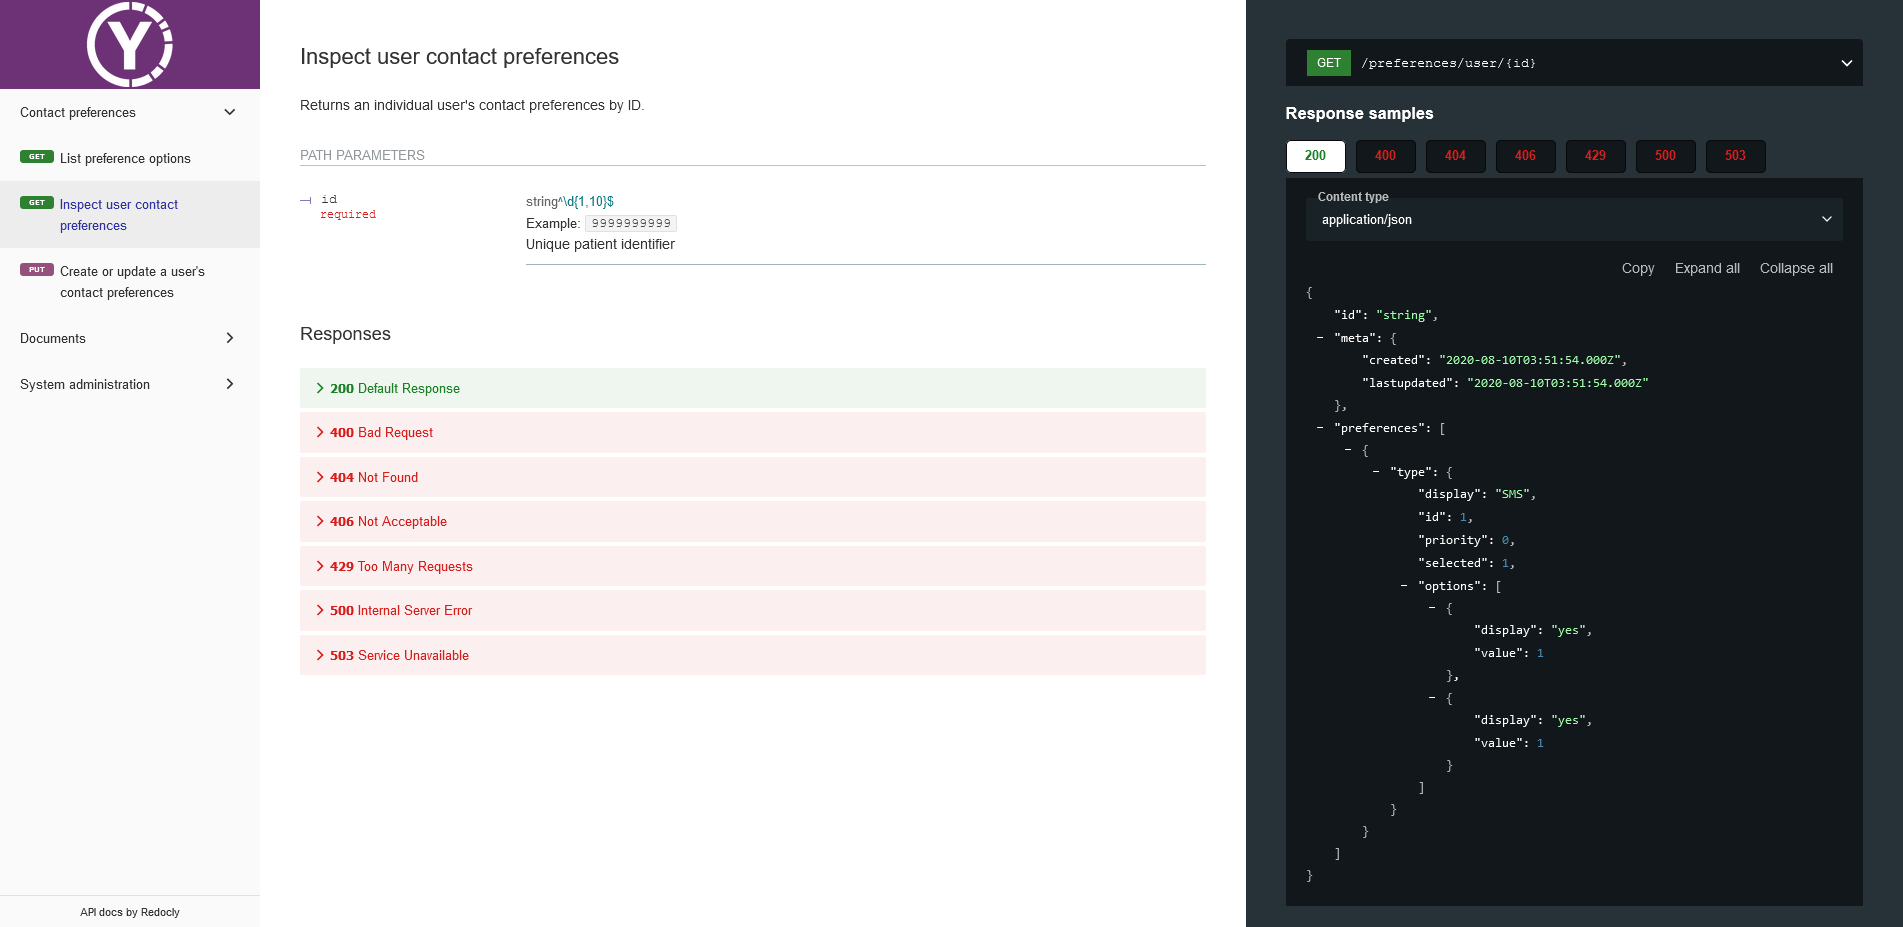
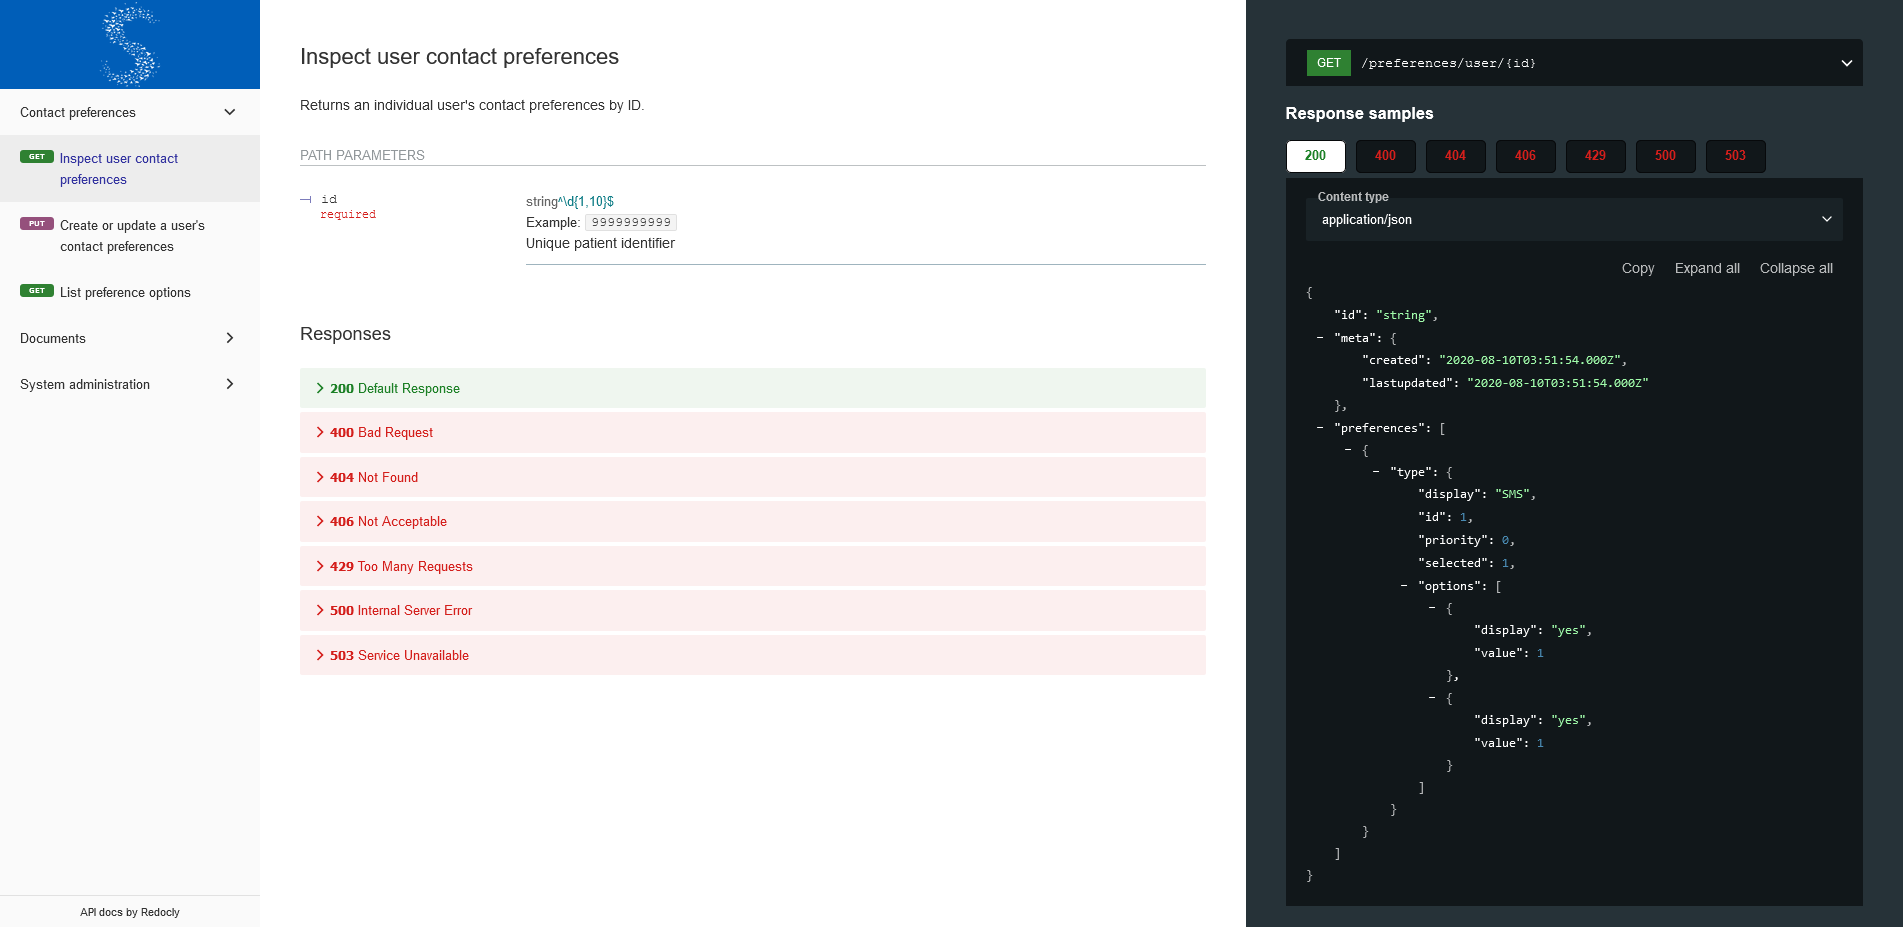
chore: replace ydh nhsft branding and links with somerset nhsft (#1288)
* test: replace ydh.nhs.uk domain

* chore: replace ydh nhsft branding and links with somerset nhsft

Changed region(s): [[0.0, 0.0, 0.155, 0.1208], [0.0, 0.151, 0.093, 0.3323], [0.279, 0.2114, 0.341, 0.2718]]

diff --git a/src/server.test.js b/src/server.test.js
@@ -649,7 +649,7 @@ describe("Server deployment", () => {
 					},
 					request: {
 						headers: {
-							origin: "https://notreal.ydh.nhs.uk",
+							origin: "https://notreal.somersetft.nhs.uk",
 						},
 					},
 					expected: {
@@ -658,12 +658,12 @@ describe("Server deployment", () => {
 								json: {
 									...expResHeadersJson,
 									"access-control-allow-origin":
-										"https://notreal.ydh.nhs.uk",
+										"https://notreal.somersetft.nhs.uk",
 								},
 								text: {
 									...expResHeadersText,
 									"access-control-allow-origin":
-										"https://notreal.ydh.nhs.uk",
+										"https://notreal.somersetft.nhs.uk",
 								},
 							},
 						},
@@ -672,11 +672,11 @@ describe("Server deployment", () => {
 				{
 					testName: "CORS enabled and set to string",
 					corsEnvVariables: {
-						CORS_ORIGIN: "https://notreal.ydh.nhs.uk",
+						CORS_ORIGIN: "https://notreal.somersetft.nhs.uk",
 					},
 					request: {
 						headers: {
-							origin: "https://notreal.ydh.nhs.uk",
+							origin: "https://notreal.somersetft.nhs.uk",
 						},
 					},
 					expected: {
@@ -685,12 +685,12 @@ describe("Server deployment", () => {
 								json: {
 									...expResHeadersJson,
 									"access-control-allow-origin":
-										"https://notreal.ydh.nhs.uk",
+										"https://notreal.somersetft.nhs.uk",
 								},
 								text: {
 									...expResHeadersText,
 									"access-control-allow-origin":
-										"https://notreal.ydh.nhs.uk",
+										"https://notreal.somersetft.nhs.uk",
 								},
 							},
 						},
@@ -700,13 +700,13 @@ describe("Server deployment", () => {
 					testName: "CORS enabled and set to array of strings",
 					corsEnvVariables: {
 						CORS_ORIGIN: [
-							"https://notreal.ydh.nhs.uk",
+							"https://notreal.somersetft.nhs.uk",
 							"https://notreal.sft.nhs.uk",
 						],
 					},
 					request: {
 						headers: {
-							origin: "https://notreal.ydh.nhs.uk",
+							origin: "https://notreal.somersetft.nhs.uk",
 						},
 					},
 					expected: {
@@ -715,12 +715,12 @@ describe("Server deployment", () => {
 								json: {
 									...expResHeadersJson,
 									"access-control-allow-origin":
-										"https://notreal.ydh.nhs.uk",
+										"https://notreal.somersetft.nhs.uk",
 								},
 								text: {
 									...expResHeadersText,
 									"access-control-allow-origin":
-										"https://notreal.ydh.nhs.uk",
+										"https://notreal.somersetft.nhs.uk",
 								},
 							},
 						},
@@ -733,7 +733,7 @@ describe("Server deployment", () => {
 					},
 					request: {
 						headers: {
-							origin: "https://notreal.ydh.nhs.uk",
+							origin: "https://notreal.somersetft.nhs.uk",
 						},
 					},
 					expected: {

diff --git a/src/config/index.js b/src/config/index.js
@@ -240,7 +240,7 @@ async function getConfig() {
 				info: {
 					title: "MyYDH CRUD API",
 					description:
-						'<a href="https://yeovilhospital.co.uk/">Yeovil District Hospital NHSFT</a>\'s MyYDH RESTful API, a Node.js application using the <a href="https://fastify.io/">Fastify web framework</a>, built to support CRUD (Create, Read, Update, and Delete) functionality of patient contact preferences for the MyYDH patient and clinician app at https://my.ydh.nhs.uk.',
+						'<a href="https://somersetft.nhs.uk/yeovilhospital/">Yeovil Hospital</a>\'s MyYDH RESTful API, a Node.js application using the <a href="https://fastify.io/">Fastify web framework</a>, built to support CRUD (Create, Read, Update, and Delete) functionality of patient contact preferences for the MyYDH patient and clinician app at https://my.ydh.nhs.uk.',
 					contact: {
 						name: "Author",
 						email: "frazer.smith@somersetft.nhs.uk",
@@ -252,10 +252,9 @@ async function getConfig() {
 					version,
 					// Redoc specific extension to support loading image in docs
 					"x-logo": {
-						url: "/public/images/ydh-y-logo-transparent-background-wide-canvas.png",
-						backgroundColor: "#6D3176",
-						altText:
-							"Yeovil District Hospital NHS Foundation Trust logo",
+						url: "/public/images/sft-s-logo-transparent-background-wide-canvas.png",
+						backgroundColor: "#005EB8",
+						altText: "Somerset NHS Foundation Trust Logo",
 					},
 				},
 				// Components object populated by shared schemas at launch

diff --git a/src/config/config.test.js b/src/config/config.test.js
@@ -410,22 +410,22 @@ describe("Configuration", () => {
 			testName: "CORS origin set to comma-delimited string value",
 			envVariables: {
 				CORS_ORIGIN:
-					"https://test1.ydh.nhs.uk, https://test2.ydh.nhs.uk",
+					"https://test1.somersetft.nhs.uk, https://test2.somersetft.nhs.uk",
 			},
 			expected: {
 				origin: expect.arrayContaining([
-					"https://test1.ydh.nhs.uk",
-					"https://test2.ydh.nhs.uk",
+					"https://test1.somersetft.nhs.uk",
+					"https://test2.somersetft.nhs.uk",
 				]),
 			},
 		},
 		{
 			testName: "CORS origin set to string value",
 			envVariables: {
-				CORS_ORIGIN: "https://ydh.nhs.uk",
+				CORS_ORIGIN: "https://somersetft.nhs.uk",
 			},
 			expected: {
-				origin: "https://ydh.nhs.uk",
+				origin: "https://somersetft.nhs.uk",
 			},
 		},
 	])(

diff --git a/src/routes/documents/register/route.test.js b/src/routes/documents/register/route.test.js
@@ -18,10 +18,10 @@ const mockRecord = {
 	clinic: "CLO/BIA",
 	documentType: "Clinic Letter",
 	fileName: "99999 DUCK 11 July 2015 11 27.pdf",
-	baseUrl: "https://notreal.ydh.nhs.uk",
+	baseUrl: "https://notreal.somersetft.nhs.uk",
 	baseSite: "/sites/MedicalRecords1",
 	fullPath: "./path/path/path",
-	url: "https://notreal.ydh.nhs.uk/sites/MedicalRecords1/_layouts/15/DocIdRedir.aspx?ID=EXAMPLEGUID-0123456789-99999",
+	url: "https://notreal.somersetft.nhs.uk/sites/MedicalRecords1/_layouts/15/DocIdRedir.aspx?ID=EXAMPLEGUID-0123456789-99999",
 	createdDate: "2015-09-30T05:40:14.000Z",
 	modifiedDate: "2020-08-10T03:51:54.000Z",
 	specialty: "General Surgery",

diff --git a/src/routes/docs/index.html b/src/routes/docs/index.html
@@ -4,7 +4,7 @@
 		<meta charset="utf-8" />
 		<meta
 			name="description"
-			content="Reference documentation and OpenAPI definitions for Yeovil District Hospital NHSFT's MyYDH CRUD API." />
+			content="Reference documentation and OpenAPI definitions for Yeovil Hospital's MyYDH CRUD API." />
 		<meta name="author" content="Frazer Smith, Solutions Development" />
 		<meta name="viewport" content="width=device-width, initial-scale=1" />
 

diff --git a/README.md b/README.md
@@ -1,19 +1,19 @@
-<a href="https://yeovilhospital.co.uk/">
-	<img alttext="Yeovil District Hospital logo" src="https://github.com/Fdawgs/ydh-logos/raw/HEAD/images/ydh-full-logo-transparent-background.svg" width="480" />
+<a href="https://somersetft.nhs.uk/yeovilhospital/">
+	<img alttext="Somerset NHSFT logo" src="https://github.com/TauntonandSomersetNHSTrust/sft-logos/raw/HEAD/images/sft-nhsft-logo-left-aligned-transparent-background.png" width="480" />
 </a>
 
-# Yeovil District Hospital NHS Foundation Trust - MyYDH RESTful CRUD API
+# Yeovil Hospital - MyYDH RESTful CRUD API
 
 [![GitHub Release](https://img.shields.io/github/release/Fdawgs/ydh-myydh-crud-api.svg)](https://github.com/Fdawgs/ydh-myydh-crud-api/releases/latest/)
 ![Build Status](https://github.com/Fdawgs/ydh-myydh-crud-api/workflows/CI/badge.svg?branch=main)
 [![Coverage Status](https://coveralls.io/repos/github/Fdawgs/ydh-myydh-crud-api/badge.svg?branch=main)](https://coveralls.io/github/Fdawgs/ydh-myydh-crud-api?branch=main)
 [![code style: prettier](https://img.shields.io/badge/code_style-prettier-ff69b4.svg?style=flat)](https://github.com/prettier/prettier)
 
-> Yeovil District Hospital NHSFT's RESTful CRUD API for the MyYDH app
+> Yeovil Hospital's RESTful CRUD API for the MyYDH app
 
 ## Overview
 
-This is [Yeovil District Hospital NHSFT](https://yeovilhospital.co.uk/)'s MyYDH RESTful API, a Node.js application using the [Fastify](https://fastify.io/) web framework, built to support CRUD (Create, Read, Update, and Delete) functionality of patient contact preferences for the [MyYDH patient and clinician app](https://my.ydh.nhs.uk/).
+This is [Yeovil Hospital](https://somersetft.nhs.uk/yeovilhospital/)'s MyYDH RESTful API, a Node.js application using the [Fastify](https://fastify.io/) web framework, built to support CRUD (Create, Read, Update, and Delete) functionality of patient contact preferences for the [MyYDH patient and clinician app](https://my.ydh.nhs.uk/).
 
 ## Prerequisites
 
